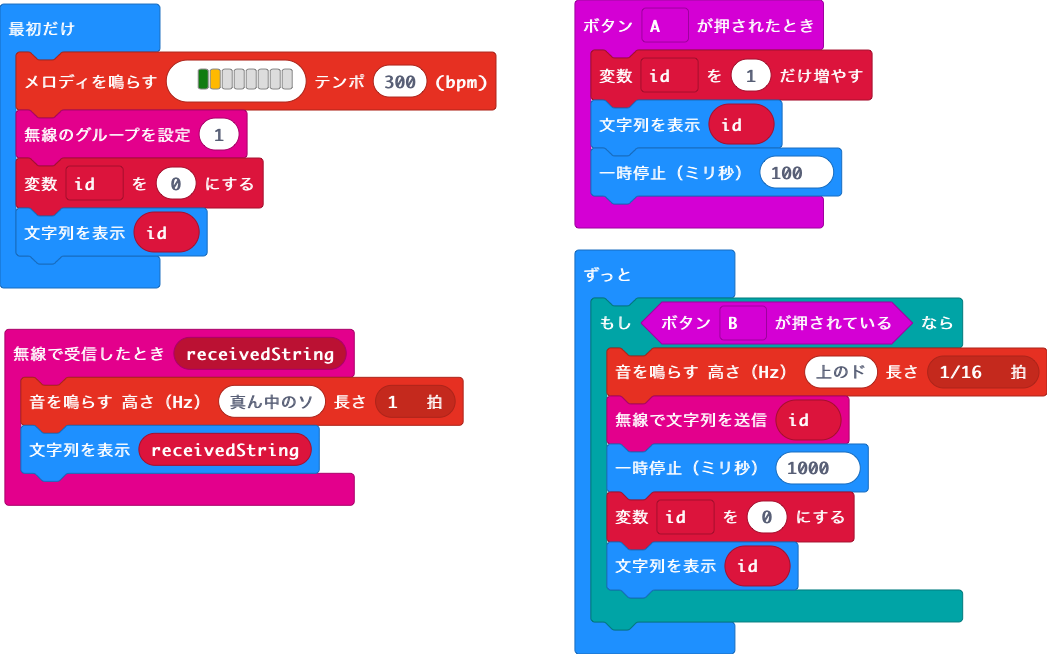
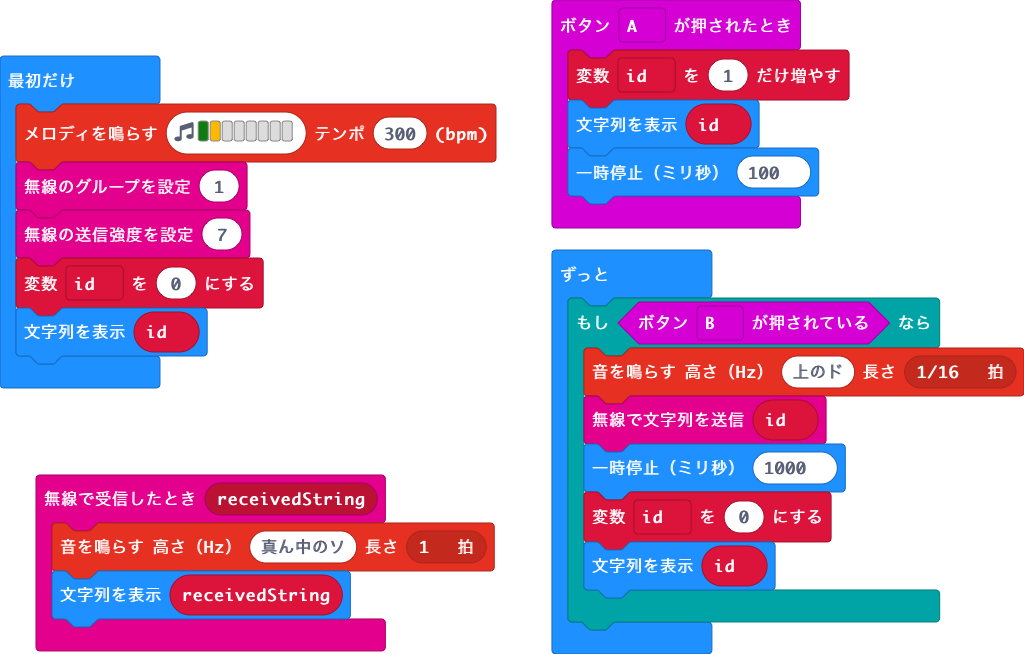
# set the transmit power to the max

diff --git a/main.ts b/main.ts
@@ -10,6 +10,7 @@ radio.onReceivedString(function (receivedString) {
 let id = 0
 music.playMelody("G A - - - - - - ", 300)
 radio.setGroup(1)
+radio.setTransmitPower(7)
 id = 0
 basic.showString("" + (id))
 basic.forever(function () {
